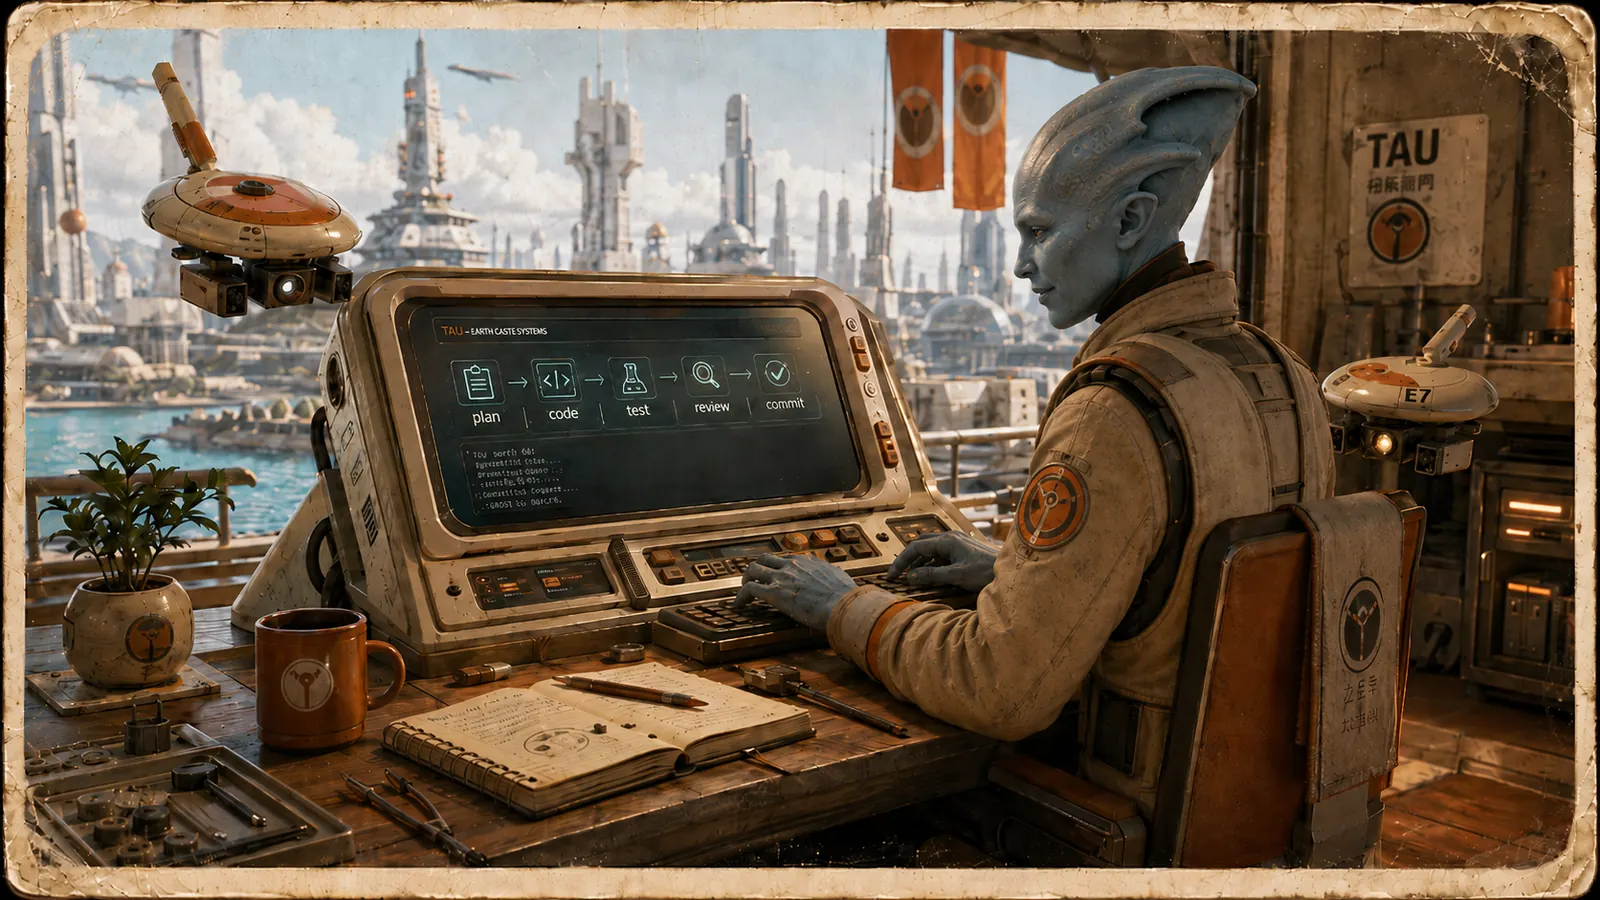
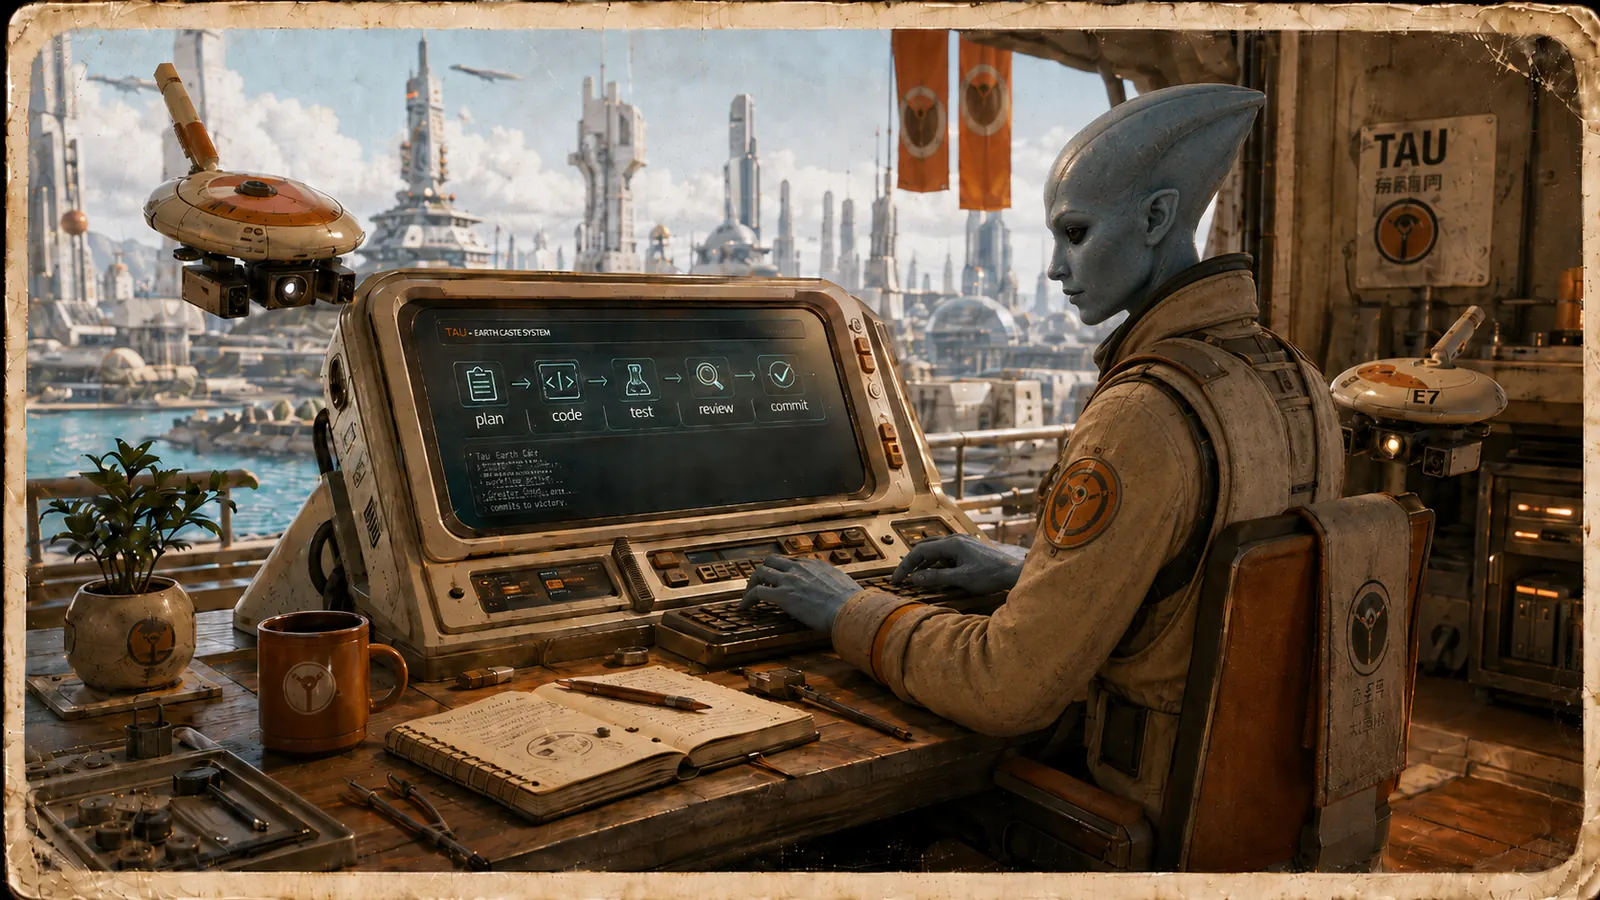
Replace T’au README header image

Changed region(s): [[0.0, 0.0, 1.0, 1.0], [0.3438, 0.0, 0.4688, 0.0311], [0.6562, 0.8711, 0.6875, 0.9022]]

diff --git a/PROJECT_KNOWLEDGE.md b/PROJECT_KNOWLEDGE.md
@@ -67,7 +67,7 @@
 | 2026-06-27 | Record explicit ticket-source inputs in command-loop receipts | Passing `--goal-guardian-ticket-source` appends the source path to the goal-guardian adapter command, which makes the receipt replayable from command artifacts rather than out-of-band environment setup. |
 | 2026-06-27 | Project command-loop reconciliation through GitHub with source trace | The wrapper command avoids manually locating the reconciliation artifact and records loop, reconciliation, and ticket-source paths next to the dry-run GitHub commands. |
 | 2026-06-27 | Rewrite README using the Watch README shape | Tau needs a human-facing project overview, not only an inherited teaching-project README. The new README starts from the visible product promise, then explains the harness, Memory-first chat direction, and proof boundaries. |
-| 2026-06-27 | Compress the Tau header image with Pillow into WebP | The source PNG was 2,526,857 bytes at 1672x941. `docs/assets/tau-header.webp` is 170,524 bytes at 1600x900, which keeps the README visual lightweight. |
+| 2026-06-27 | Compress the T’au header image with Pillow into WebP | The current source PNG `/home/graham/Downloads/ChatGPT Image Jun 27, 2026, 07_46_10 PM.png` was 2,540,871 bytes at 1672x941. `docs/assets/tau-header.webp` is 168,904 bytes at 1600x900, which keeps the README visual lightweight. |
 
 ## Open Questions
 
@@ -140,7 +140,7 @@
 | 2026-06-27 | `/tmp/tau-live-memory-chat-proof-compliance-20260627T233340Z` | Live UX Lab Tau compliance route proof through the Memory-backed chat adapter; `mocked: false`, `live: true`, external subagent GitHub projection schema `tau.external_subagent_github_projection.v1`, `dryRun: true`, `applied: false`, command count `1`, and preserved goal hash. |
 | 2026-06-27 | `/tmp/tau-memory-chat-proof-suite-20260627T233356Z/summary.json` | Tau Memory chat proof suite in pi-mono; `ok: true`, `scenarioCount: 12`, `liveScenarioCount: 5`, `mockedScenarioCount: 7`. The suite proves route-specific harness behavior and dry-run projection extraction, not final Sparta Chat readiness. |
 | 2026-06-27 | `/tmp/codex-ui-verification/pi-mono/tau-external-subagent-github-projection-ui/20260627T233448Z.png` | Fresh CDP screenshot marker for the Tau UX Lab surface after the external subagent GitHub projection slice. Screenshot confirms the Tau experiment surface renders; interaction proof is in the browser proof-suite artifacts. |
-| 2026-06-27 | `docs/assets/tau-header.webp` | README header image compressed with Pillow: output 1600x900 WebP, 170,524 bytes; source PNG was 1672x941, 2,526,857 bytes. |
+| 2026-06-27 | `docs/assets/tau-header.webp` | README header image compressed with Pillow from `/home/graham/Downloads/ChatGPT Image Jun 27, 2026, 07_46_10 PM.png`: output 1600x900 WebP, 168,904 bytes; source PNG was 1672x941, 2,540,871 bytes. |
 
 ## Infrastructure State
 